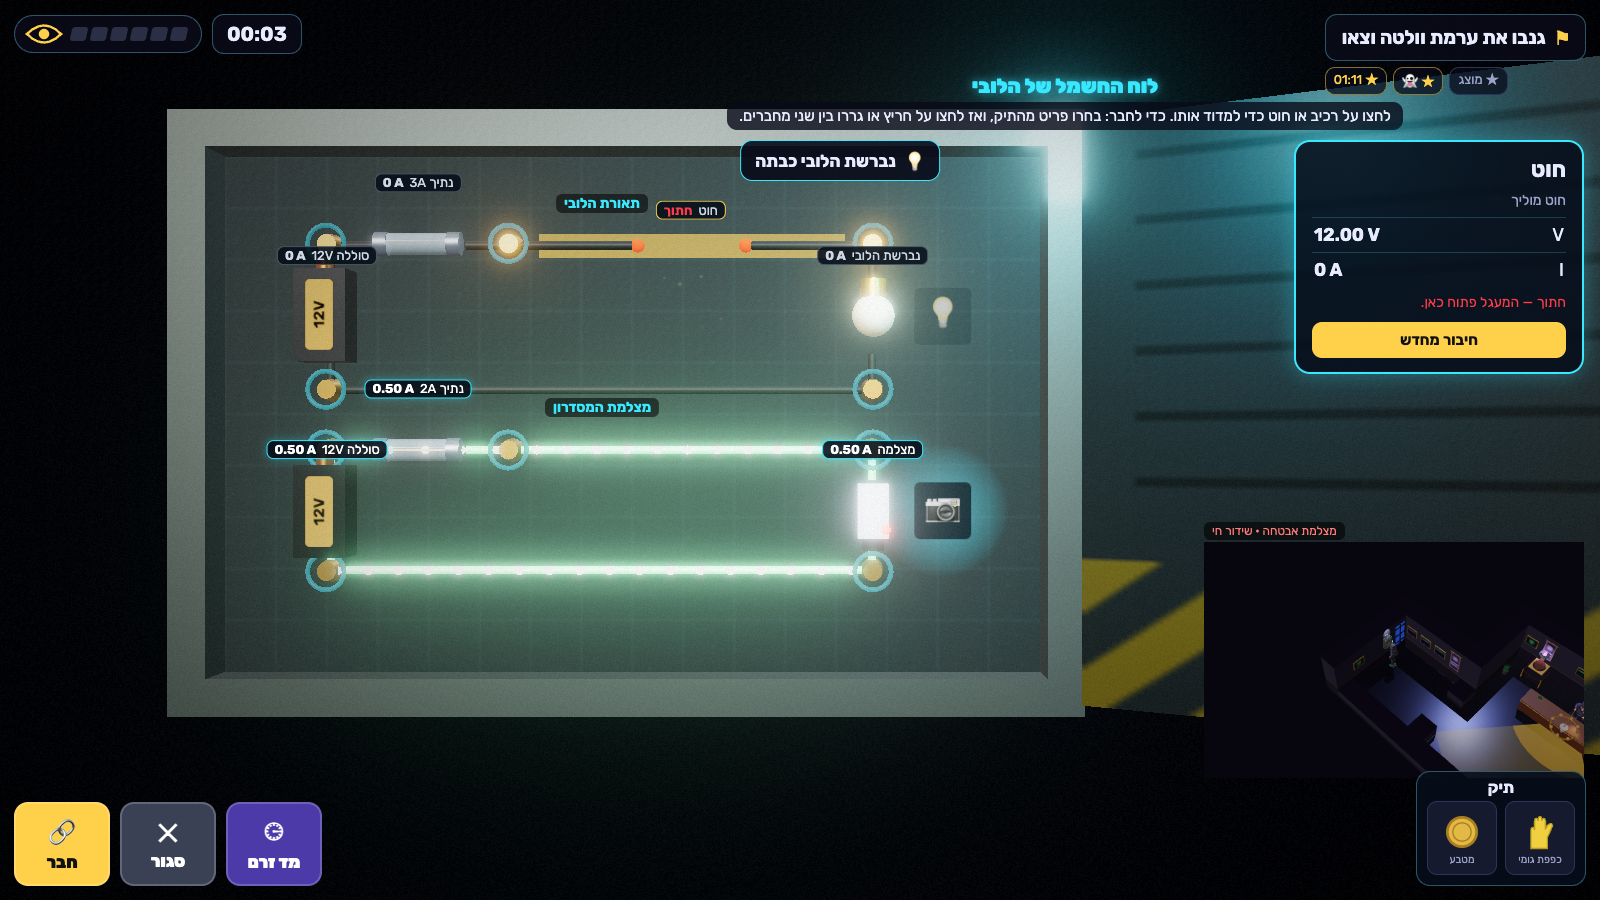
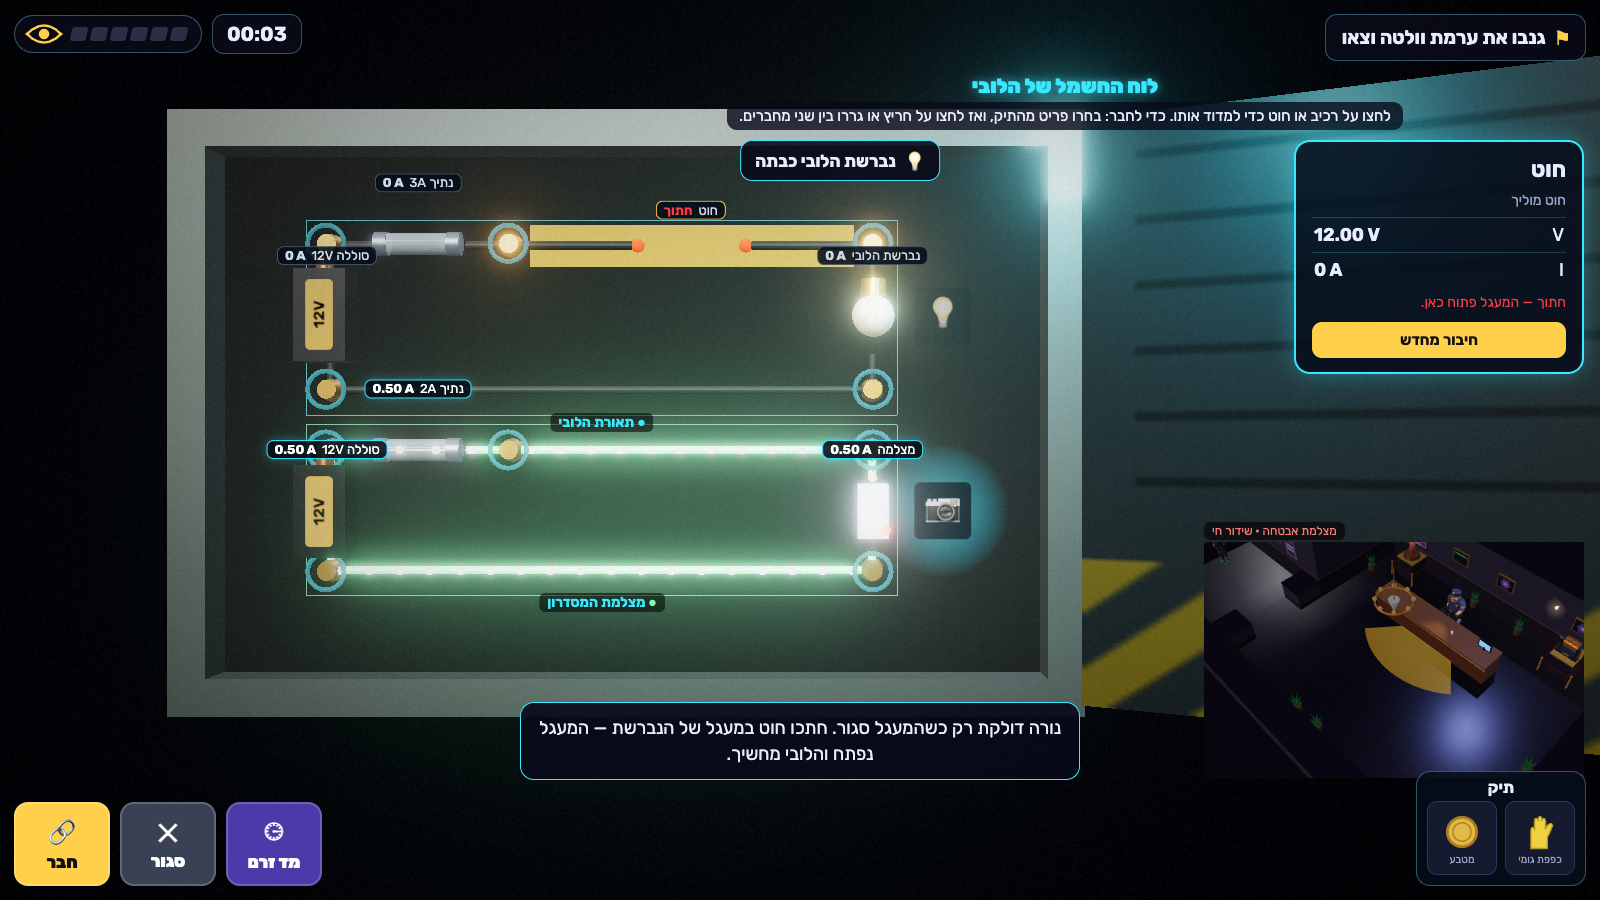
Critic round verified with real input; toasts never block clicks; docs and captures updated

diff --git a/src/style.css b/src/style.css
@@ -60,7 +60,7 @@ kbd { background: #1a1d33; border: 1px solid #3a4170; border-radius: 5px; paddin
 .act-btn { width: 64px; height: 64px; border-radius: 50%; background: var(--panel); border: 2px solid var(--yellow); color: var(--yellow); font-size: 24px; font-weight: 800; display: none; }
 .prompt { position: absolute; bottom: 128px; left: 50%; transform: translateX(-50%); background: var(--panel); border: 1.5px solid var(--yellow); border-radius: 12px; padding: 8px 16px; font-size: 18px; font-weight: 700; white-space: nowrap; }
 .prompt kbd { background: var(--yellow); color: #111; border: 0; font-weight: 800; }
-.toast { position: absolute; top: 168px; left: 50%; transform: translateX(-50%); width: min(560px, 86vw); background: rgba(8, 10, 24, 0.92); border: 1.5px solid var(--yellow); border-radius: 14px; padding: 12px 18px; font-size: 18px; line-height: 1.45; text-align: center; pointer-events: auto; }
+.toast { position: absolute; top: 168px; left: 50%; transform: translateX(-50%); width: min(560px, 86vw); background: rgba(8, 10, 24, 0.92); border: 1.5px solid var(--yellow); border-radius: 14px; padding: 12px 18px; font-size: 18px; line-height: 1.45; text-align: center; pointer-events: none; }
 .toast.concept { border-color: var(--cyan); }
 
 /* Panel UI */
@@ -269,3 +269,4 @@ body.in-panel .hud-tr .goals, body.in-panel .step-line { display: none; }
 /* title lock: a small corner badge instead of covering the name */
 .level-card .lock { inset: auto; top: 6px; left: 6px; width: 28px; height: 28px; font-size: 16px; border-radius: 8px; background: rgba(3, 3, 10, 0.75); }
 .pv-slot.dead { color: #a0a6b8; border-color: #6a7080; }
+body.in-panel .toast { top: auto; bottom: 120px; }

diff --git a/PLAYTEST.md b/PLAYTEST.md
@@ -47,6 +47,31 @@ Added and checked in the built-in browser and in GPU-headless Chromium:
 - Fair checkpoint retries (wiring kept, guards back at their posts), close calls, live star goals, animated results with a rank, adaptive music and effects, touch joystick, pause settings, IBL lighting, vignette/grain, adaptive resolution.
 - Frame rate after the round: 111–120 fps in heists 1–4 and steady 120 fps in heists 5–6 during play (`scripts/fps.mjs`, M2 Max, 1600×900, DPR 1); the zoomed-out intro is the heaviest view.
 - 75 automated tests pass, including new ones for guard search and checkpoint fairness.
+- Locomotion is stride-matched (clip speed follows ground speed, measured from the Tripo foot bones), so feet don't slide.
+
+## Independent game-feel / UX critique (AI critic, GPU headless, real input)
+
+The critic played the live build at 1440×900 and 390×844. It found 18 issues; all were addressed:
+
+| Finding | Fix |
+|---|---|
+| Vision cones showed a 7-tile reach even in the dark | The far cone now stops at the last lit floor (it only ever overestimates); the near flashlight cone is unchanged; moonlight dimmed so "lit" reads clearly. |
+| Heist 1 checkpoint restored a doomed state | Checkpoint retries keep your wiring but send guards back to their posts, plus a 2.5 s grace period. Regression test. |
+| Fail text blamed the player for the wrong thing | The text comes from what happened (the guard's task, a repair that just turned the camera back on), and the matching hint shows on the fail card. |
+| Rewiring consequences invisible while the panel is open | The security-cam inset swings to the device that changed; doors animate while paused; feed lines for a melted fuse ("6.0A > 4A" + flash) and "the guard heard you". |
+| No hint inside panels | 💡 button and H inside the panel; heist 1 (tutorial) shows its panel hint automatically. |
+| First 30 s lacked a next step; clock ran while reading | Heist 1 step guide (1/5…5/5) with an on-map "כאן" marker; the clock waits for the first move; camera zoomed out ~13 %. |
+| Guard's repair race invisible | HUD chip: guard coming to check → walking to the panel → repairing. |
+| Panel far from the mockup | Darker steel board, colour frames per circuit, stronger selection glow, device cards. |
+| Ohm's law needed a gauge | Analogue ammeter on motors: green "enough" band, red "fuse" band, live needle. |
+| Text piled up in the panel | Toasts go into the feed (or to the bottom) while a panel is open, and never block clicks. |
+| Insulator looked like a conductor | Insulators are grey and labelled "מבודד · 0 A"; slots turn green only when current flows. |
+| Light chip false alarm | Three states: בצל / מואר / באור — רואים אתכם (lit and actually in someone's range and sight). |
+| Two identical retry buttons | One button when there's no checkpoint; the ghost star is per attempt. |
+| E closed a panel just opened by click | 350 ms debounce. |
+| Mobile | Touch wording, objective hidden in panels, larger pick targets. |
+| Title lock covered names; Hebrew grammar | Corner lock badge; definite item names ("כפפת הגומי"); "!!" shown as ❗. |
+| Flat steal moment | Hit-stop, camera punch-in, the exhibit arcs into the backpack, a dashed green route to the exit. |
 
 ## Known limits
 

diff --git a/progress.md b/progress.md
@@ -14,9 +14,15 @@
 - **Captures + visual review.** `scripts/capture.mjs` → `docs/captures/`, compared in `docs/VISUAL_REVIEW.md`.
 - **Performance.** `scripts/fps.mjs` measured 120 fps (vsync cap) in all six heists at 1600×900, DPR 1, headless Chromium on Apple M2 Max (Metal). JS bundle 814 KB (216 KB gzipped) plus about 5.2 MB of models. Low-end devices not measured.
 
+## Polish round ("make it perfect")
+
+- Tripo second pass: thief run/afraid/cheer, guard run/angry/sit/look-around (0 credits). No new hero models: the shared pool had 25 credits; four models need about 120.
+- Scanner X-ray wave + wall-routed wires, intro flyover, objective markers, planning map, guard "?" meters / search / lines / sitting, close calls, slow-mo "!", hit-stop steal, adaptive music, panel slots / drag / feed / device cards / gauge, IBL lighting, adaptive resolution, touch joystick, pause settings.
+- Independent UX critique: 18 findings, all addressed (see PLAYTEST.md).
+
 ## Next (not done)
 
 - Real playtests with grade-8 students (fun and learning are unverified).
 - Give "current is used up" and "the fuse is in parallel" a consequence of their own.
-- A thief run/crouch clip (re-run the stalled Tripo job, or use an AI animation if credits allow).
+- New Tripo hero models (Tesla coil, security camera, dynamo, reception desk) and AI-animated sneak/point clips once Tripo credits are topped up.
 - Wire routing that hugs walls in the scanner; more props per room.
